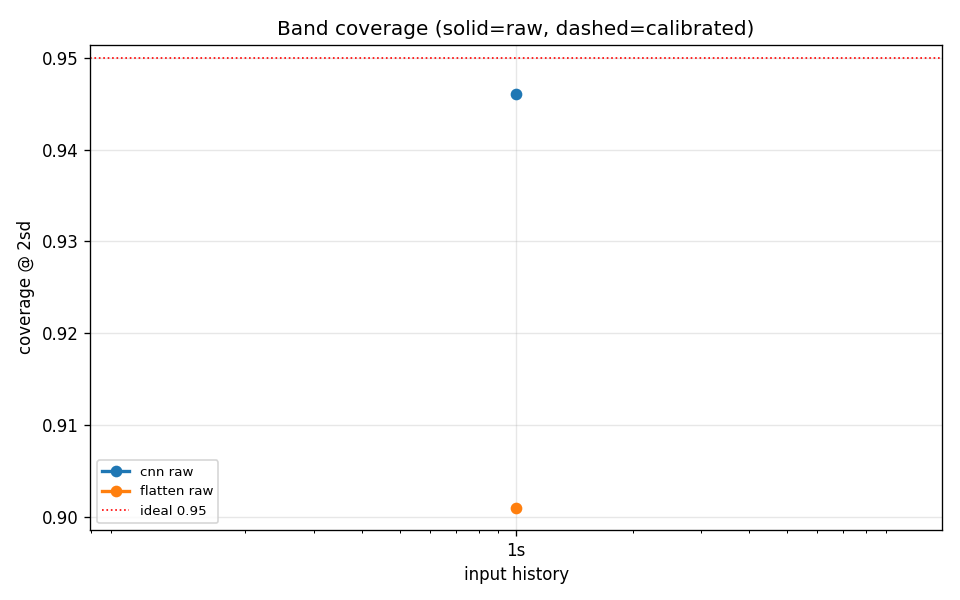
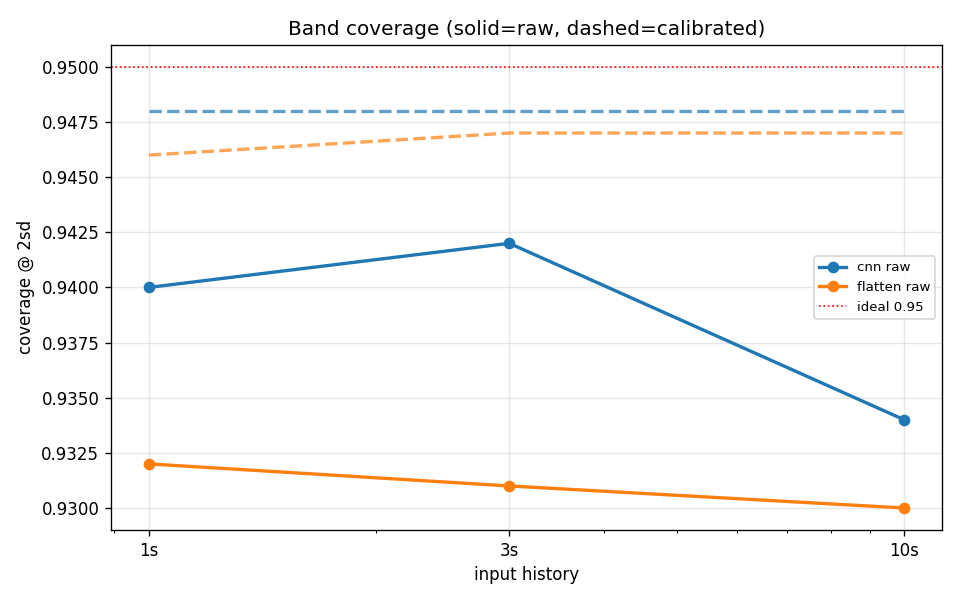
Tactile-map CV result (CRC): CNN>flatten confirmed under 5-fold probabilistic (cnn +0.05-0.06, flatten ~-0.03, cov->0.95)

diff --git a/scripts/plot_tactile_map_loss_curve.py b/scripts/plot_tactile_map_loss_curve.py
@@ -1,0 +1,115 @@
+"""Train/val/test loss vs epoch for the tactile-map model (flatten + cnn) -> overfitting check.
+
+Same idea as scripts/plot_fcop_loss_curve.py but for the map->F/CoP probGRU. Splits recordings
+70/15/15 by CLIP (norm on TRAIN only), trains each encoder while logging Gaussian NLL + MSE on
+train/val/test every epoch. Loss is evaluated on a capped random subset per split for speed. Writes
+docs/tactile_map_loss_curve.png (rows = flatten/cnn, cols = NLL/MSE).
+
+    python scripts/plot_tactile_map_loss_curve.py --history 3 --epochs 60
+"""
+from __future__ import annotations
+
+import argparse
+import os
+import sys
+
+import numpy as np
+import torch
+import yaml
+from torch.utils.data import DataLoader, Subset
+
+sys.path.insert(0, os.path.dirname(os.path.dirname(os.path.abspath(__file__))))
+from src.actionsense.eval_harness.config import load_config          # noqa: E402
+from src.actionsense.eval_harness.dataset import Norm                # noqa: E402
+from src.actionsense.tactile_map import data as D                    # noqa: E402
+from src.actionsense.tactile_map import train as T                   # noqa: E402
+from src.actionsense.tactile_map.models import build_model           # noqa: E402
+
+
+def capped(ds, cap, seed=0):
+    if len(ds) <= cap:
+        return ds
+    idx = np.random.default_rng(seed).permutation(len(ds))[:cap]
+    return Subset(ds, idx.tolist())
+
+
[email redacted]_grad()
+def losses(model, ds, dev, batch=128):
+    model.eval(); snll = smse = n = 0.0
+    for x, y in DataLoader(ds, batch_size=batch):
+        x, y = x.to(dev), y.to(dev)
+        mu, lv = model(x)
+        snll += float((0.5 * (lv + (y - mu) ** 2 * torch.exp(-lv))).sum())
+        smse += float(((y - mu) ** 2).sum()); n += y.numel()
+    return snll / n, smse / n
+
+
+def main():
+    ap = argparse.ArgumentParser()
+    ap.add_argument("--tm-config", default="configs/actionsense/tactile_map.yaml")
+    ap.add_argument("--history", type=float, default=3.0)
+    ap.add_argument("--epochs", type=int, default=60)
+    ap.add_argument("--cap", type=int, default=2500)
+    ap.add_argument("--out", default="docs/tactile_map_loss_curve.png")
+    args = ap.parse_args()
+    import matplotlib
+    matplotlib.use("Agg")
+    import matplotlib.pyplot as plt
+
+    cfg = load_config()
+    tmc = yaml.safe_load(open(args.tm_config)); tm = {**tmc["preprocess"], **tmc["model"], **tmc["optim"]}
+    dev = "cuda" if torch.cuda.is_available() else "cpu"
+    t_in = int(round(args.history * cfg.fps))
+    recs = T.recordings(cfg, require_maps=True)
+    rng = np.random.default_rng(0); order = rng.permutation(len(recs)); n = len(recs)
+    ntr, nva = int(0.70 * n), int(0.15 * n)
+    tr = [recs[i] for i in order[:ntr]]; va = [recs[i] for i in order[ntr:ntr + nva]]
+    te = [recs[i] for i in order[ntr + nva:]]
+
+    maps_tr, tgts_tr = D.load_raw(cfg, tr, tm["baseline_frames"])
+    mnorm = D.MapNorm.from_train(maps_tr, tm["alpha"]); tnorm = Norm.from_train(tgts_tr)
+    ds_tr = D.MapWindows(D.normalize(maps_tr, mnorm), {i: tnorm.z(t) for i, t in tgts_tr.items()}, cfg, t_in)
+    ds_va = T._dataset(cfg, tm, t_in, va, mnorm, tnorm)
+    ds_te = T._dataset(cfg, tm, t_in, te, mnorm, tnorm)
+    ev = {"train": capped(ds_tr, args.cap), "val": capped(ds_va, args.cap), "test": capped(ds_te, args.cap)}
+    print(f"clips tr/va/te={len(tr)}/{len(va)}/{len(te)}  windows train={len(ds_tr)} (eval cap {args.cap})")
+
+    H = {}
+    for enc in tmc["sweep"]["encoders"]:
+        torch.manual_seed(0)
+        model = build_model(enc, cfg.horizon, tm["d"], tm["hidden"]).to(dev)
+        opt = torch.optim.Adam(model.parameters(), lr=tm["lr"])
+        tl = DataLoader(ds_tr, batch_size=tm["batch"], shuffle=True)
+        H[enc] = {m: {s: [] for s in ev} for m in ("nll", "mse")}
+        for ep in range(args.epochs):
+            model.train()
+            for x, y in tl:
+                x, y = x.to(dev), y.to(dev); opt.zero_grad()
+                mu, lv = model(x)
+                (0.5 * (lv + (y - mu) ** 2 * torch.exp(-lv)).mean()).backward(); opt.step()
+            for s, d in ev.items():
+                nll, mse = losses(model, d, dev)
+                H[enc]["nll"][s].append(nll); H[enc]["mse"][s].append(mse)
+        be = int(np.argmin(H[enc]["nll"]["val"]))
+        print(f"  {enc}: min-val NLL @epoch {be + 1}; final NLL tr/va/te = "
+              f"{H[enc]['nll']['train'][-1]:.3f}/{H[enc]['nll']['val'][-1]:.3f}/{H[enc]['nll']['test'][-1]:.3f}")
+
+    encs = list(H); ep = np.arange(1, args.epochs + 1)
+    fig, axes = plt.subplots(len(encs), 2, figsize=(14, 5.2 * len(encs)), squeeze=False)
+    for ri, enc in enumerate(encs):
+        for ci, metric in enumerate(["nll", "mse"]):
+            ax = axes[ri][ci]; be = int(np.argmin(H[enc]["val"] if False else H[enc][metric]["val"]))
+            for k, c in [("train", "C0"), ("val", "C1"), ("test", "C2")]:
+                ax.plot(ep, H[enc][metric][k], color=c, lw=2, label=k)
+            ax.axvline(be + 1, color="0.6", ls=":", lw=1, label=f"min-val ep {be + 1}")
+            ax.set_title(f"{enc} — {metric.upper()}"); ax.set_xlabel("epoch")
+            ax.set_ylabel("Gaussian NLL" if metric == "nll" else "MSE of the mean")
+            ax.legend(fontsize=8); ax.grid(alpha=.3)
+    fig.suptitle(f"Tactile-map probGRU loss vs epoch ({args.history:.0f}s history) — overfitting check "
+                 f"(train-only norm; split by clip)", fontsize=13)
+    fig.tight_layout(rect=[0, 0, 1, 0.97]); os.makedirs(os.path.dirname(args.out), exist_ok=True)
+    fig.savefig(args.out, dpi=120); print(f"[done] {args.out}")
+
+
+if __name__ == "__main__":
+    main()

diff --git a/SESSION_LOG.md b/SESSION_LOG.md
@@ -1660,3 +1660,17 @@ DEMONSTRATION (raw/right/3s, same 70/15/15 clip split, 80 epochs, held-out TEST)
 were depressed by overfitting. TODO: re-run the full F/CoP sweep with early stopping to refresh the CSV.
 Baselines reminder: persistence = last-value (skill-0 reference, per-split); linear AR (harness, raw
 6-dim) = +0.18 mean skill (best right-CoP-x +0.25). Split confirmed leak-free (by clip, norm train-only).
+
+ssh -Y -J [email redacted] [email redacted]
+### RESULT (2026-07-22) — tactile-map CV on CRC GPU: CNN > flatten confirmed (5-fold, probabilistic)
+Full CRC GPU run of the 5-fold probabilistic CV (train_tactile_map_gpu.job, all 75 map recordings,
+80 epochs, early-stopped). Mean skill vs persistence + coverage (raw->calibrated):
+  cnn      1s +0.052  3s +0.050  10s +0.063   cov 0.93-0.94 -> 0.95
+  flatten  1s -0.040  3s -0.025  10s -0.026   cov 0.93      -> 0.95
+=> CNN beats flatten at EVERY history (spatial contact-patch structure contributes), now under the
+rigorous 5-fold + probabilistic + sigma-calibration protocol; bands calibrate cleanly to 0.95. CNN
+best at 10s (+0.063); flatten stays just below persistence. Consistent with the earlier deterministic
+frozen-split result (cnn +0.05..+0.08). Artifacts: docs/tactile_map_cv_results.csv, _skill_vs_history.png,
+_coverage.png. (AR on aggregates +0.18 still the ceiling -- map+CNN helps vs flatten but not vs AR yet.)
+Added scripts/plot_tactile_map_loss_curve.py (train/val/test NLL+MSE per epoch for both encoders) to
+check whether the map model overfits like the F/CoP one (running).